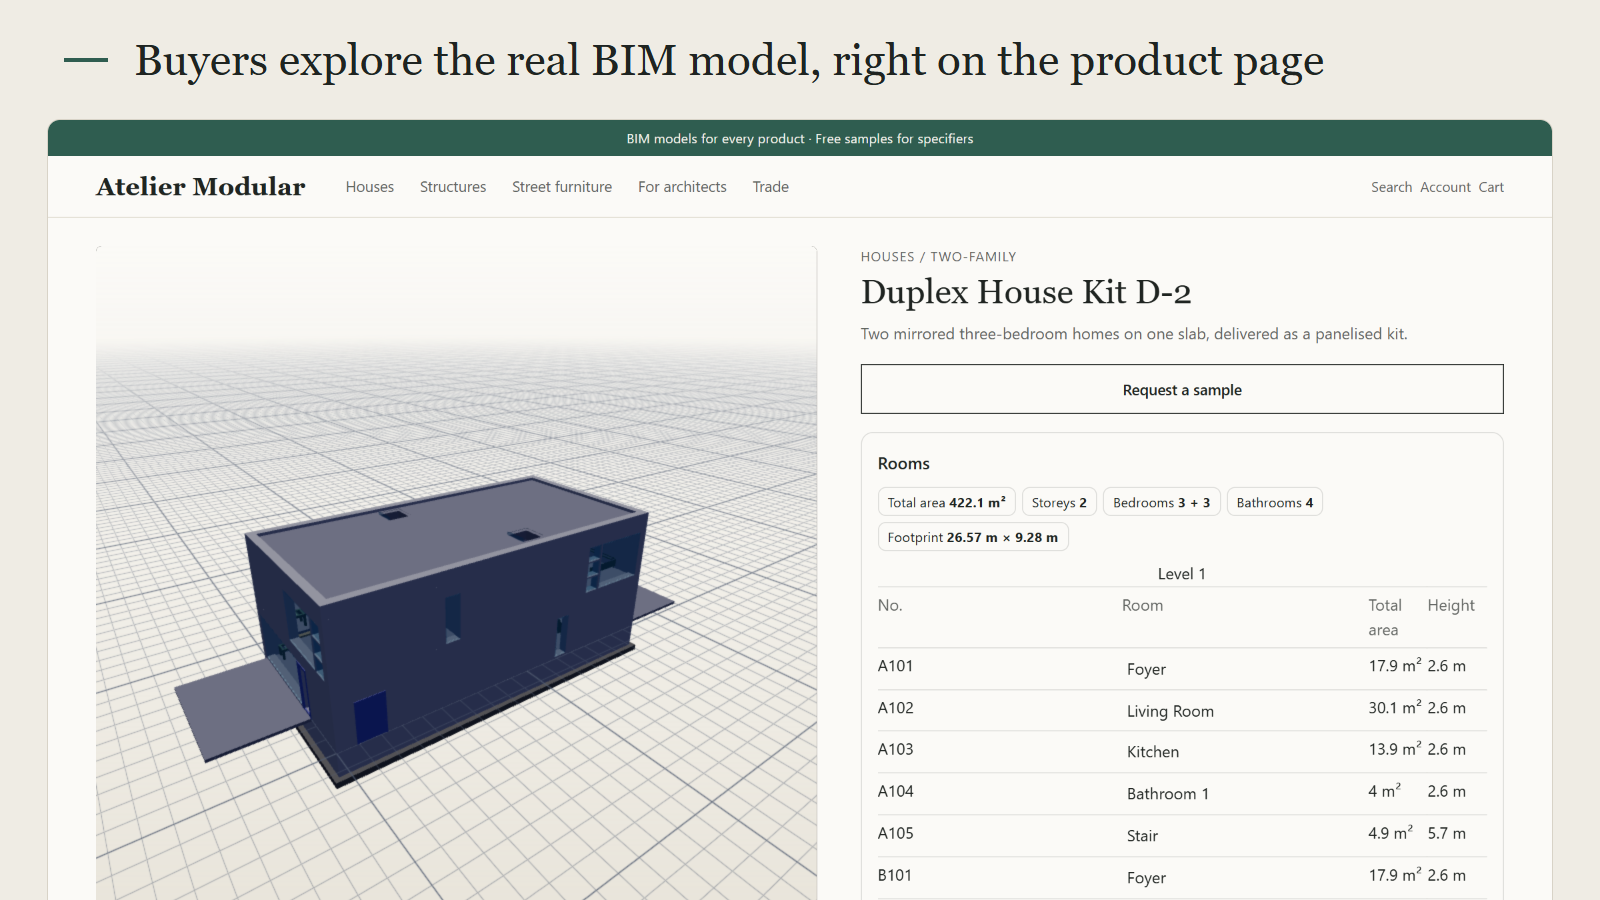
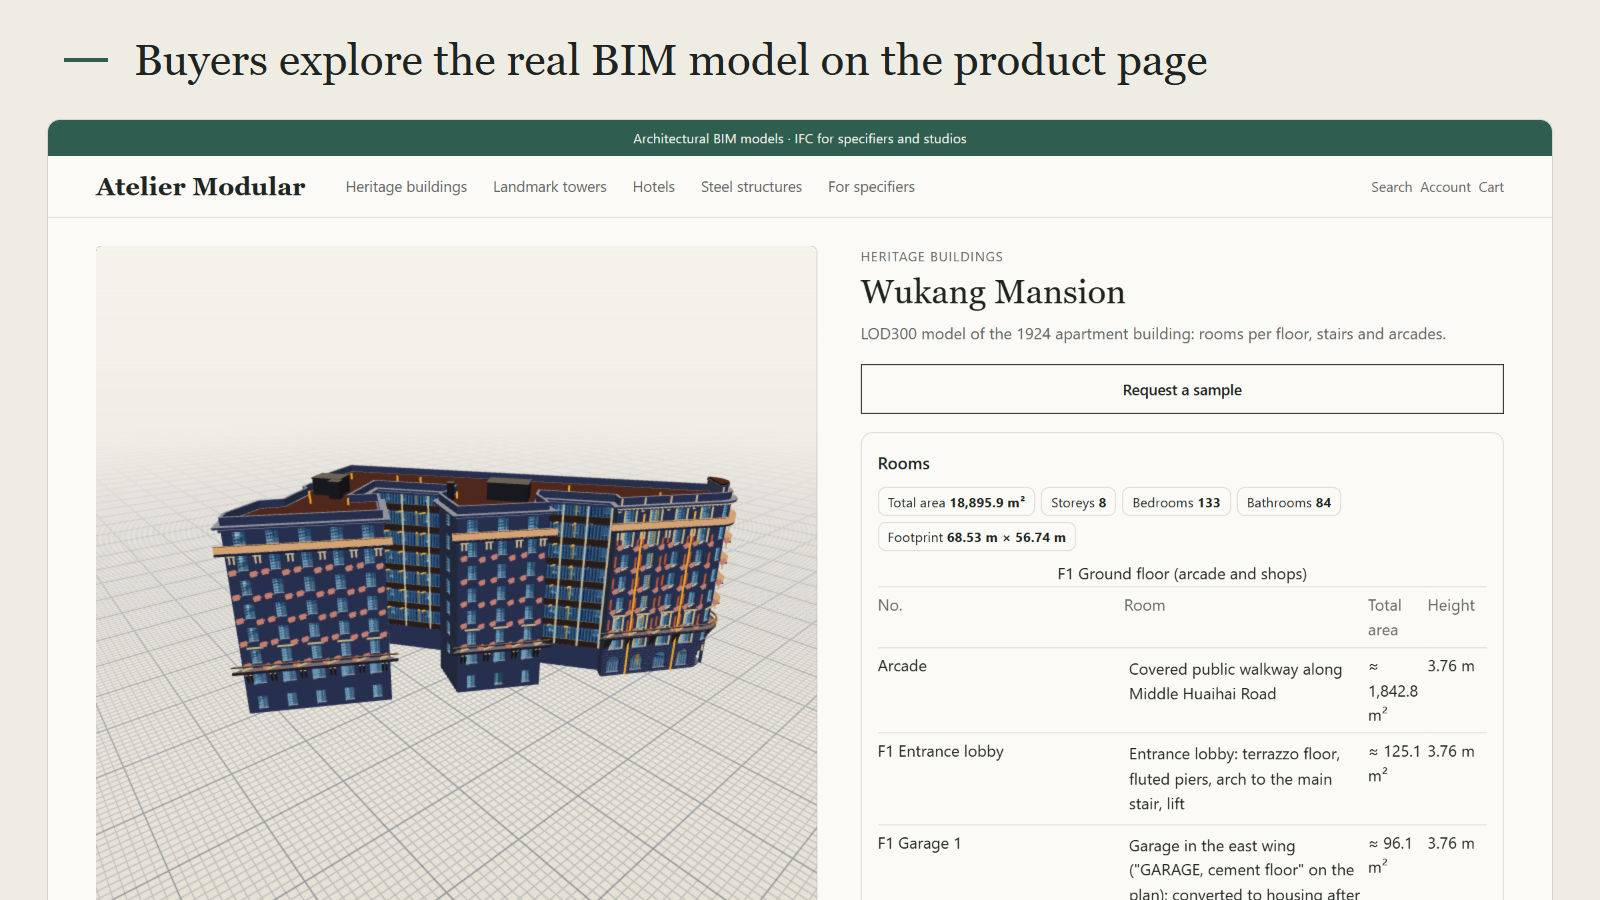
feat(shopify): listing v3 images with flagship models (Wukang Mansion, Shanghai towers, Hotel Vela, steel hall)
Keeps the first set in listing/v3/previous. Harness: CORS server, SDK framing with
quality render, local-model swap, compare viewers framed alike. Compare panes and
tabs now honour [hidden].

diff --git a/integrations/shopify/app/extensions/ifc-viewer/assets/ifcvo.css b/integrations/shopify/app/extensions/ifc-viewer/assets/ifcvo.css
@@ -174,6 +174,7 @@
 .ifcvo-compare-stage { position: relative; height: 360px; border-radius: var(--ifcvo-radius, 12px); overflow: hidden; background: #f4f4f4; }
 .ifcvo-compare-note:empty, .ifcvo-compare-status:empty { display: none; }
 .ifcvo-compare-tabs { display: flex; gap: 6px; margin-top: 12px; }
+.ifcvo-compare-split[hidden], .ifcvo-compare-tabs[hidden], .ifcvo-compare-pane[hidden] { display: none; }
 .ifcvo-compare-tab { flex: 1; border: 1px solid currentColor; background: none; border-radius: 6px; opacity: .7; }
 .ifcvo-compare-tab[aria-selected="true"] { opacity: 1; font-weight: 600; }
 .ifcvo-compare-table table { width: 100%; border-collapse: collapse; margin-top: 12px; }

diff --git a/integrations/shopify/listing/v3/SUBMIT.md b/integrations/shopify/listing/v3/SUBMIT.md
@@ -132,7 +132,7 @@ stand-ins for Shopify-only tags) into a demo product page of a neutral store,
 each model through the SDK and adds one headline. Re-run (from `integrations/shopify`):
 
 ```
-python -m http.server 8731 --bind 127.0.0.1
+node listing/v3/harness/serve.mjs . <folder with the owner-supplied Wukang IFC>
 LIQUIDJS=file:///<dir>/node_modules/liquidjs/dist/liquid.node.mjs node listing/v3/harness/render.mjs
 PW=file:///C:/repo/ifc/node_modules/playwright-core/index.mjs node listing/v3/harness/shoot.mjs
 ```
@@ -144,14 +144,18 @@ alt text: drop `frame()` in `shoot.mjs`.
 | Slot | File | Alt text |
 |---|---|---|
 | App icon (1200×1200) | `icon-1200x1200.png` | — |
-| Feature image (1600×900) | `feature-1600x900.png` | Product page of a building product with its interactive 3D BIM model |
-| Screenshot 1 | `desktop-1-explore.png` | Product page of a duplex house kit with the interactive 3D IFC model next to a rooms table read from the model |
-| Screenshot 2 | `desktop-2-data.png` | Structural frame product page with the 3D model and a bill of quantities grouped by type |
+| Feature image (1600×900) | `feature-1600x900.png` | Interactive 3D IFC model of a historic apartment building, Wukang Mansion |
+| Screenshot 1 | `desktop-1-explore.png` | Product page of the Wukang Mansion IFC model in an interactive 3D viewer, next to the rooms and areas read from the model |
+| Screenshot 2 | `desktop-2-data.png` | Steel portal frame hall product page with the 3D model and a bill of quantities with steel by profile |
 | Screenshot 3 | `desktop-3-quote.png` | Hotel block product page: a curtain wall selected in 3D and a quote form that lists the selected element |
-| Screenshot 4 | `desktop-4-downloads.png` | Downloads block asking guests to create an account for the IFC, GLB and CSV files, and an email-me-this-model form |
-| Screenshot 5 | `desktop-5-compare.png` | Compare variants block showing a tram stop and a bench with lamps side by side in 3D |
-| Screenshot 6 | `desktop-6-planset.png` | Plan set block listing the drawings and model included with each licence, and a View in your space button |
-| Mobile 1–3 (optional) | `mobile-1-explore.png`, `mobile-2-quote.png`, `mobile-3-downloads.png` (900×1600) | as their desktop counterparts, on a phone |
+| Screenshot 4 | `desktop-4-downloads.png` | Shanghai Tower model with a downloads block asking guests to create an account, and an email-me-this-model form |
+| Screenshot 5 | `desktop-5-compare.png` | Compare variants block with an office tower and a hotel side by side in 3D |
+| Screenshot 6 | `desktop-6-planset.png` | Oriental Pearl Tower model with a plan set block listing drawings and model per licence, and a View in your space button |
+| Mobile 1–3 (optional) | `mobile-1-explore.png`, `mobile-2-quote.png`, `mobile-3-downloads.png` (900×1600) | Wukang Mansion with its rooms; hotel block quote with a selected curtain wall; World Financial Center with gated downloads |
+
+The previous image set is kept in `previous/`. Wukang Mansion is an owner-supplied IFC that is
+not public: the harness opens the page on a tiny public file and swaps the Wukang file in through
+the SDK (as a visitor dropping a file would); everything else on the page is the real block.
 
 Not made here: a screenshot of the after-sale "My models & files" page. It is a
 Shopify customer-account UI extension and only renders inside a real store; capture it
